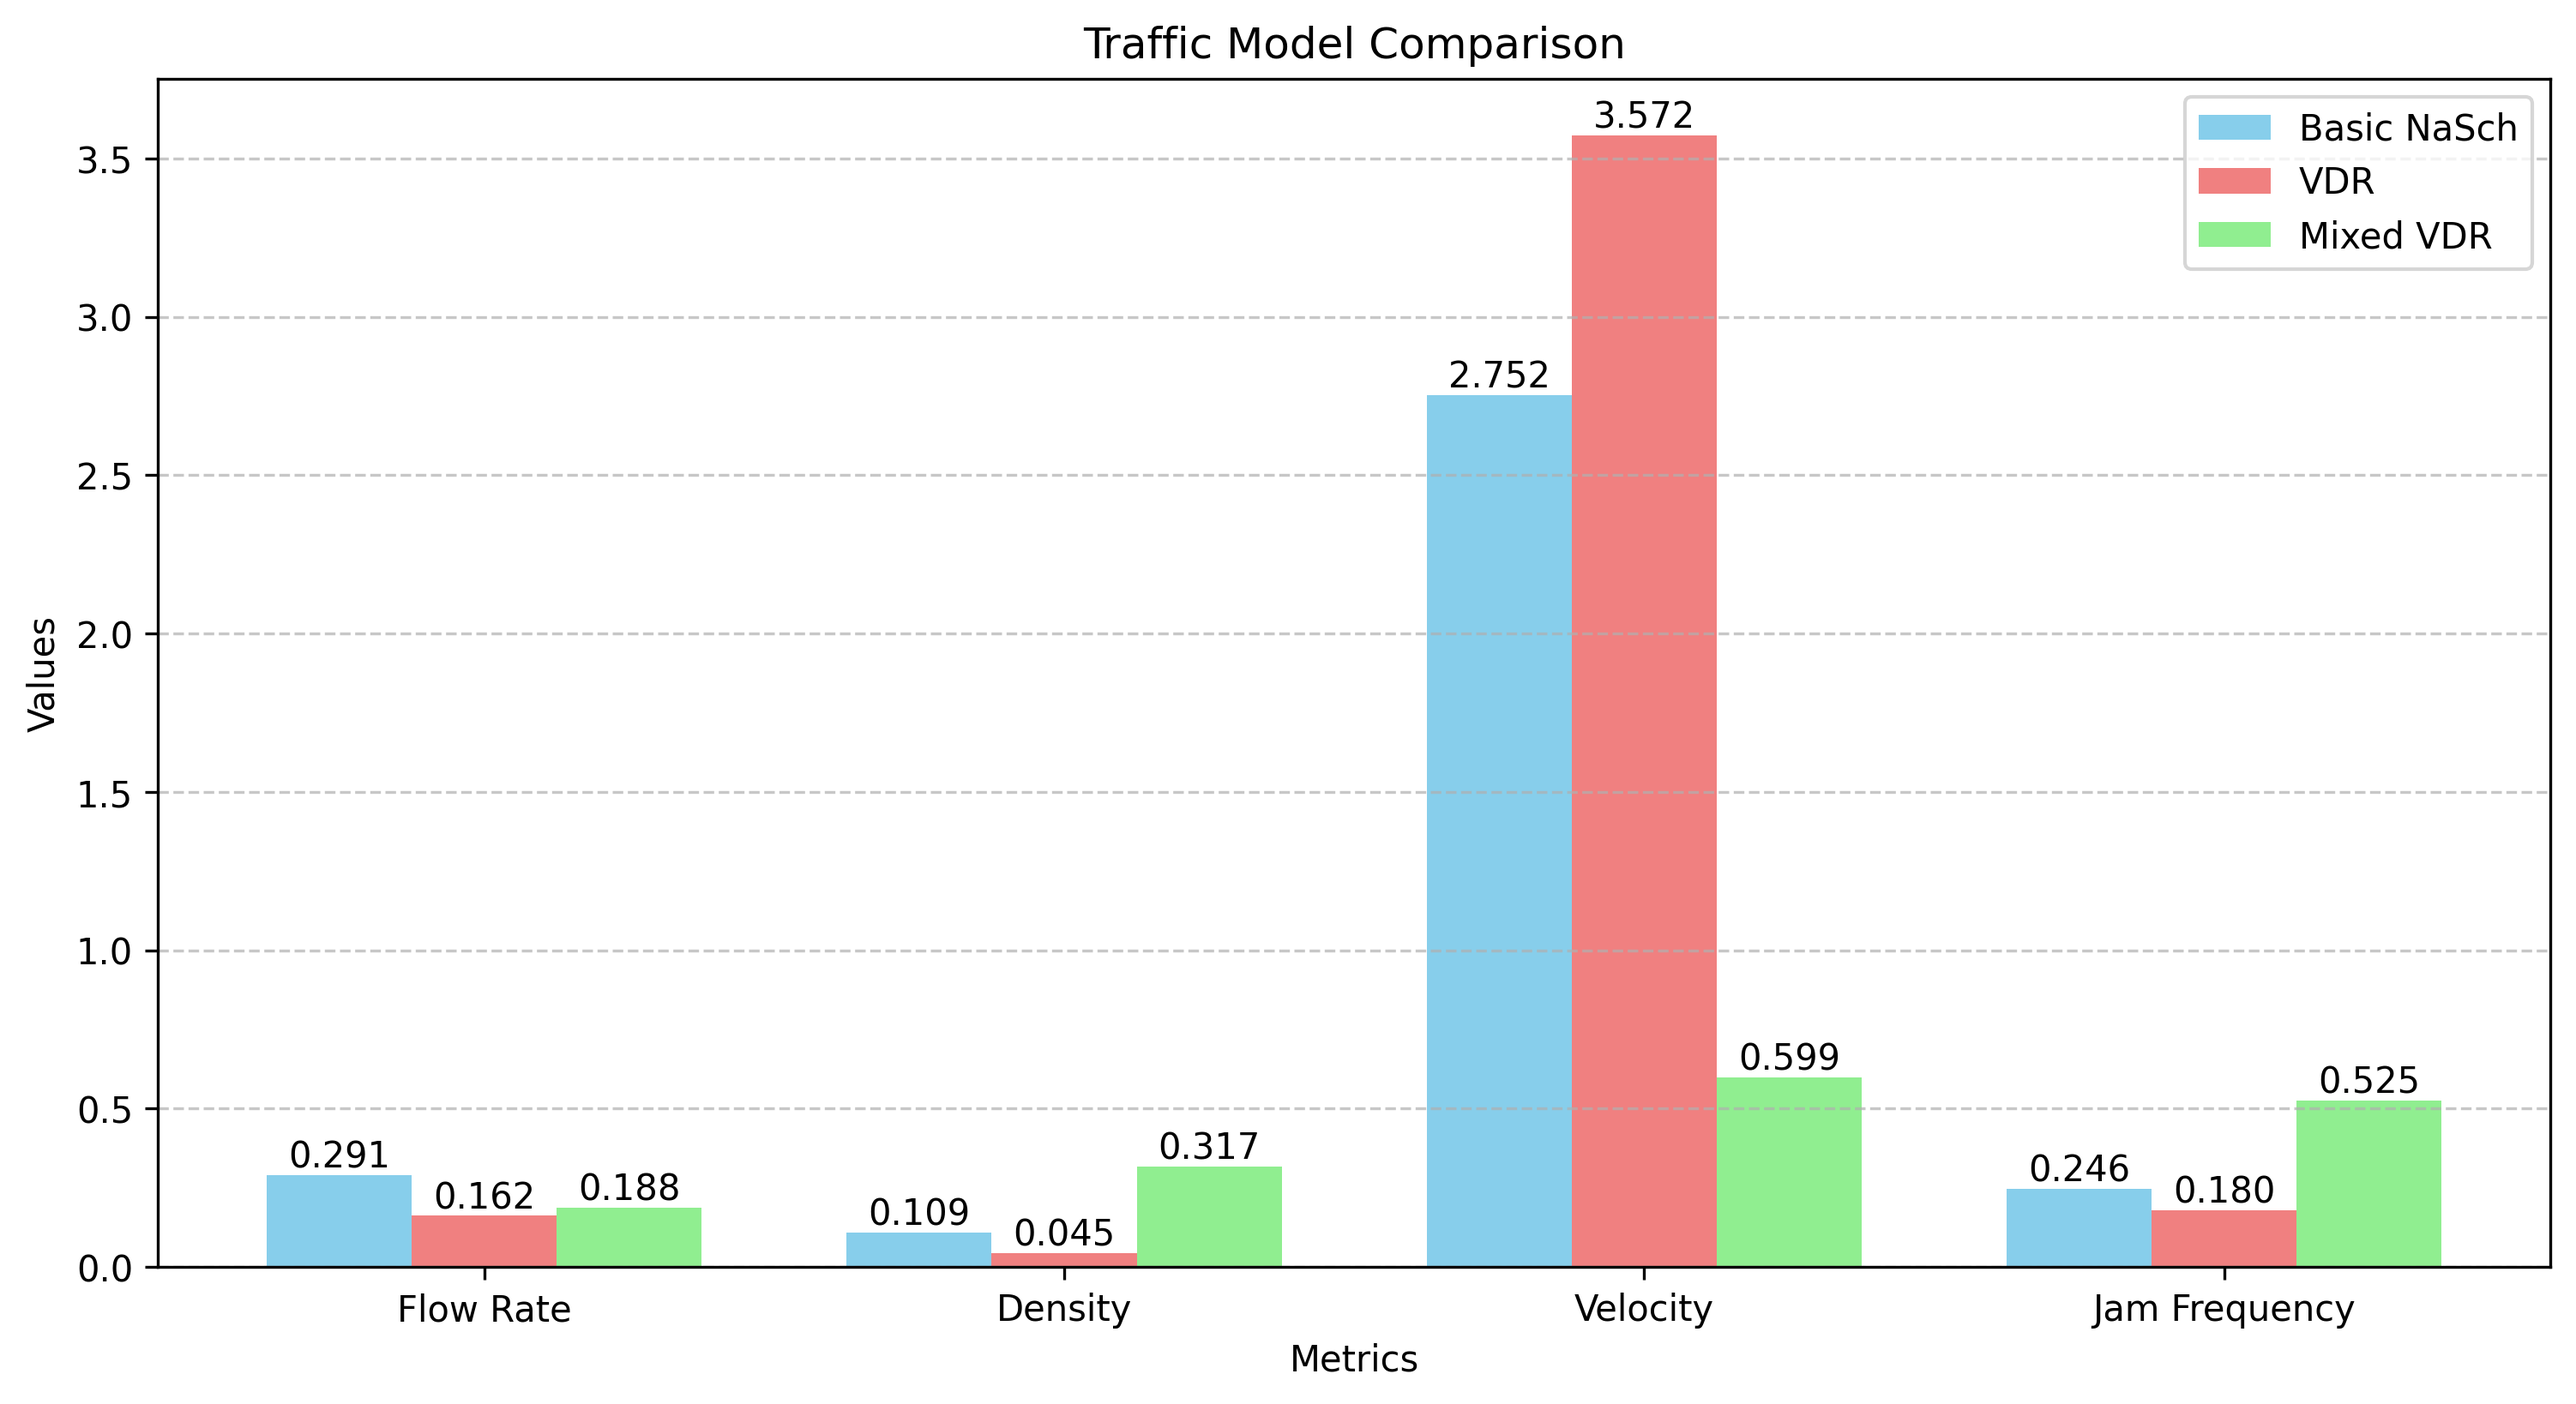
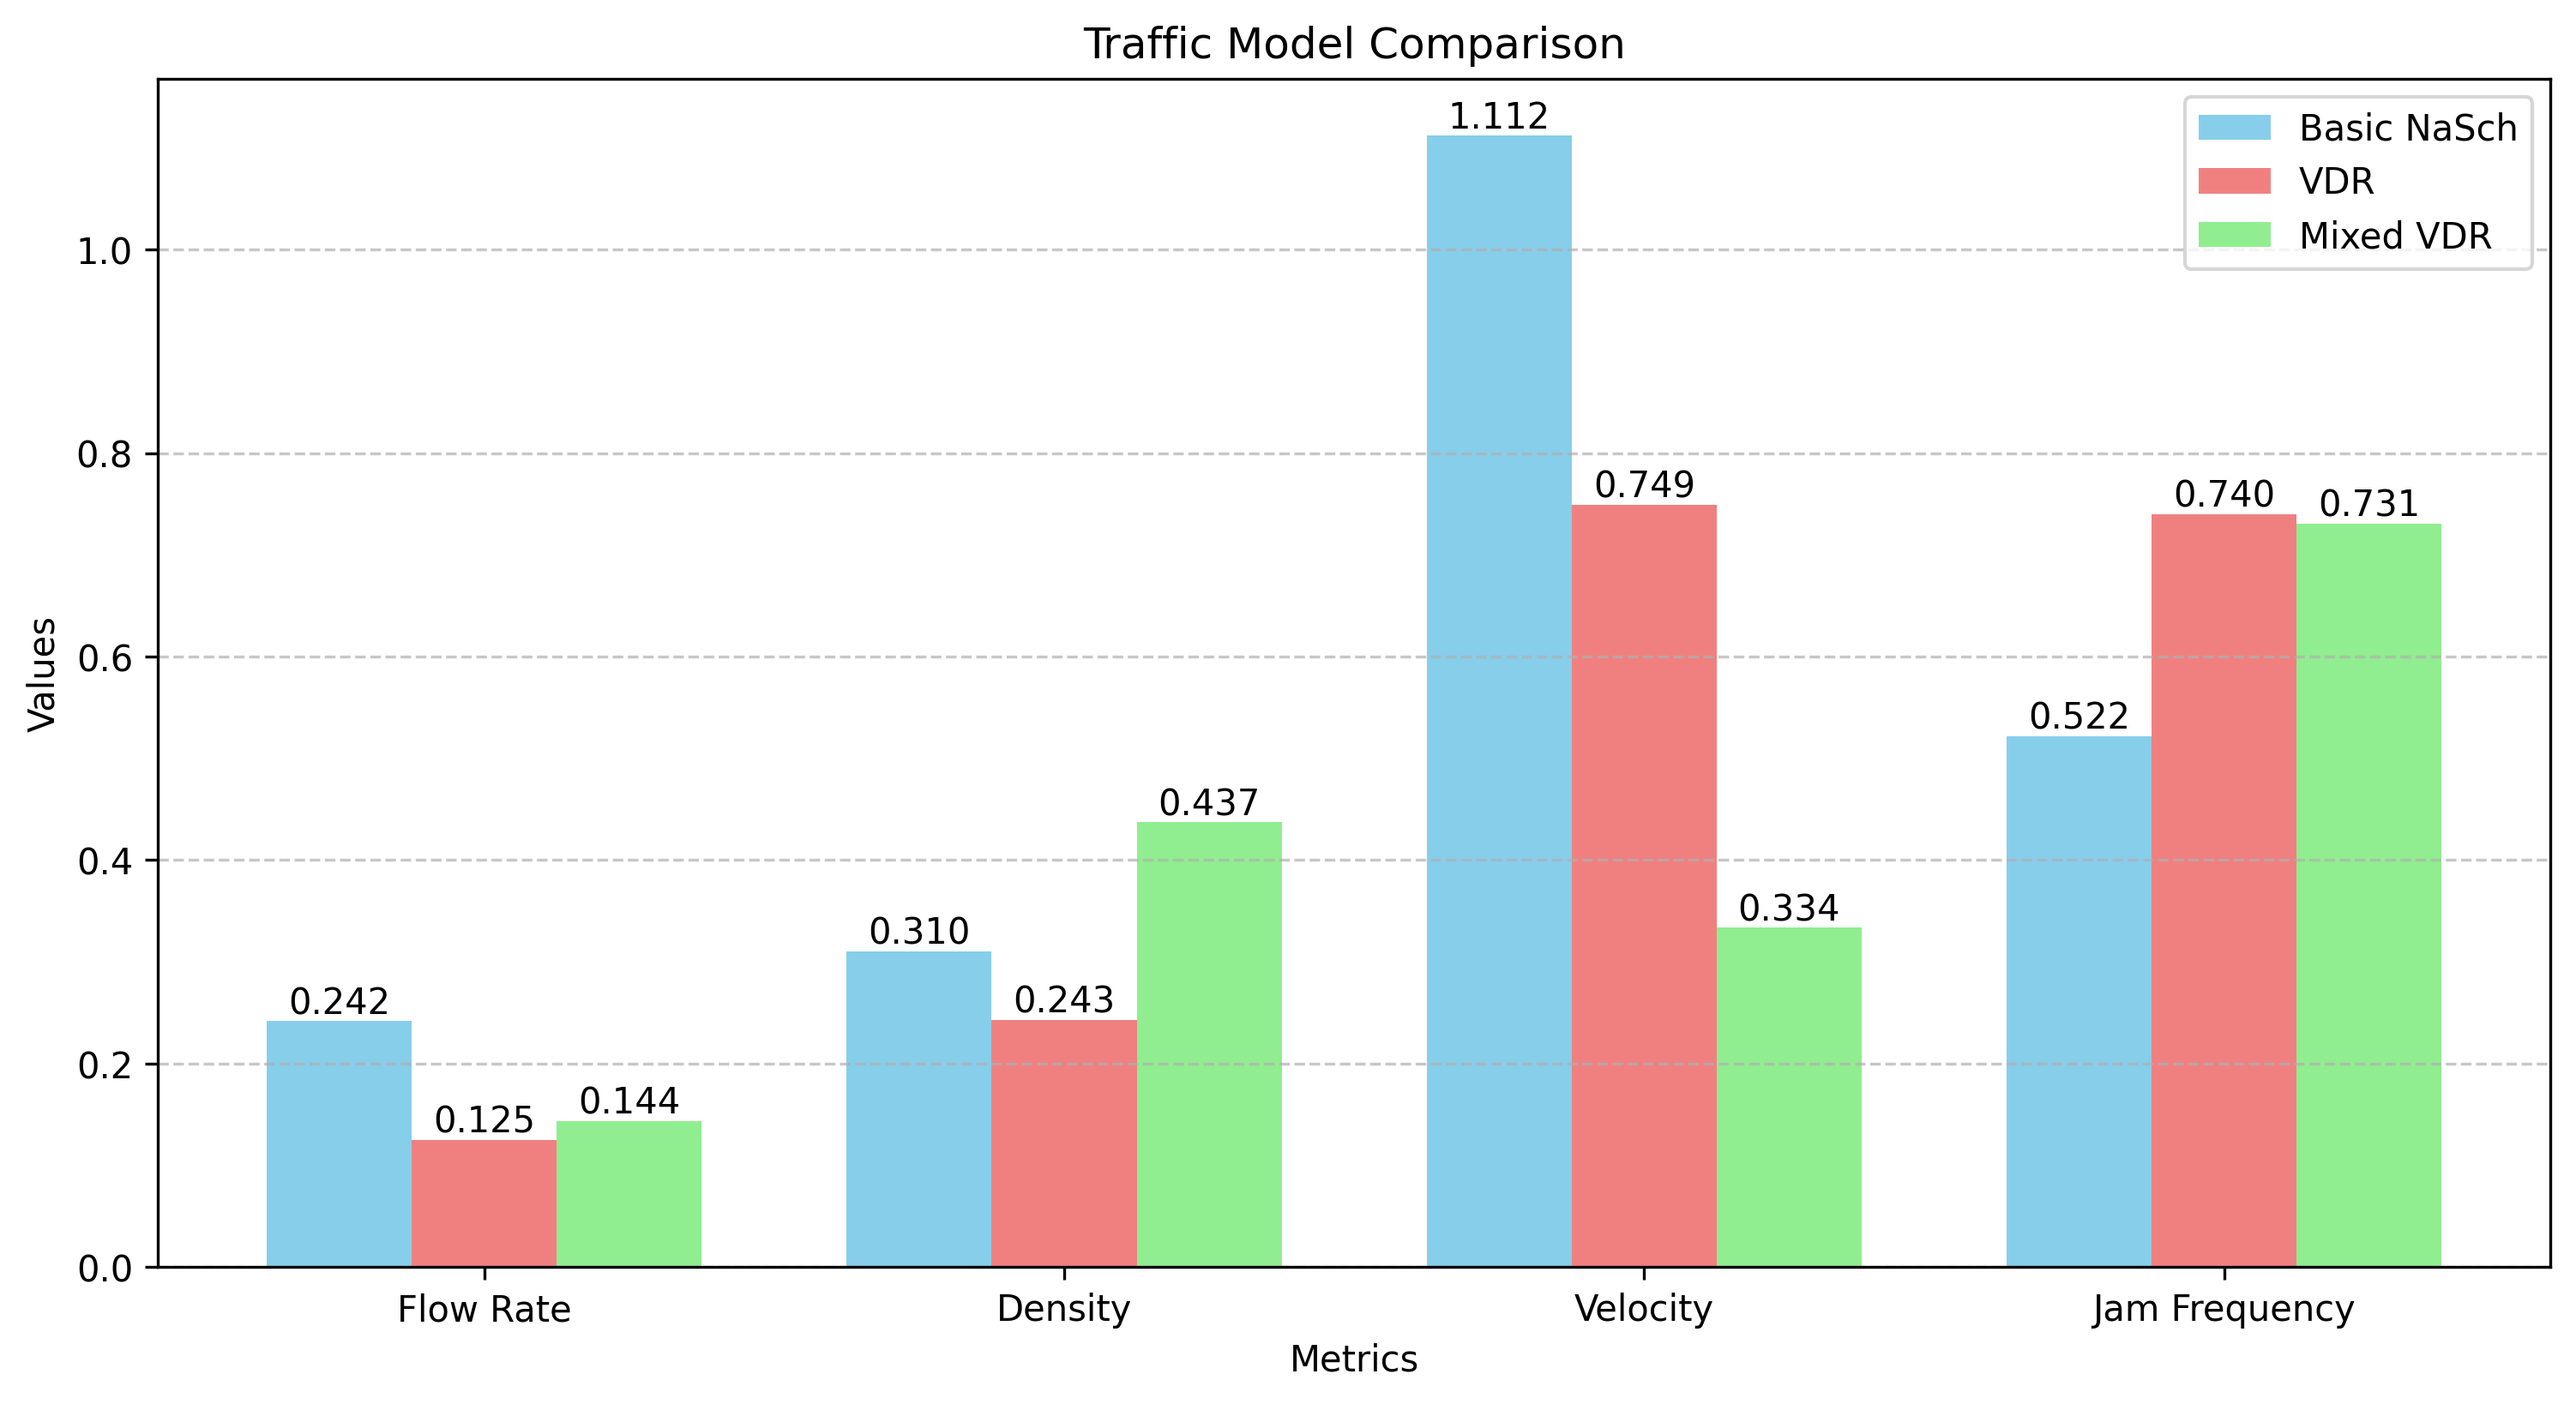
modifications

diff --git a/final-project/main.py b/final-project/main.py
@@ -39,16 +39,16 @@ class SimulationManager:
                 truck_ratio=0.2
             ),
             'comparison': SimulationConfig(
-                road_length=200,   # Longer road for statistics
-                num_cars=75,
-                v_max=4,
-                p_slow=0.5,
+                road_length=100,   # Longer road for statistics
+                num_cars=50,
+                v_max=5,
+                p_slow=0.4,
                 boundary_type='open',
                 alpha=0.5,
                 beta=0.5,
                 p0_slow=0.8,
-                steps=200,
-                truck_ratio=0.2
+                steps=1000,
+                truck_ratio=0.1
             )
         }
     

diff --git a/final-project/traffic_simulation.py b/final-project/traffic_simulation.py
@@ -178,10 +178,10 @@ class MixedVDRTrafficSimulation(VDRTrafficSimulation):
             VehicleType.TRUCK: {
                 'max_velocity': max(2, max_velocity - 1),
                 'min_velocity': 0,
-                'acceleration': 0.75,
+                'acceleration': 0.9,
                 'p_slow': p_slow * 1.15,
                 'p0_slow': p0_slow * 1.1,
-                'recovery_rate': 0.6
+                'recovery_rate': 0.65
             }
         }
         

diff --git a/final-project/vehicle_types.py b/final-project/vehicle_types.py
@@ -23,8 +23,8 @@ VEHICLE_PROPERTIES = {
         color='blue'
     ),
     VehicleType.TRUCK: VehicleProperties(
-        max_velocity=3,
-        acceleration=0.5,
+        max_velocity=4,
+        acceleration=0.9,
         length=2,
         color='red'
     )
